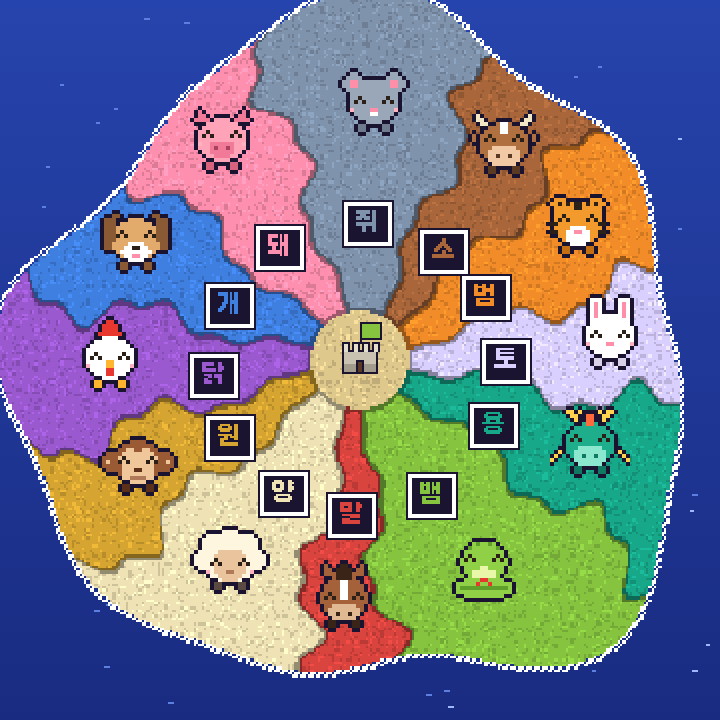
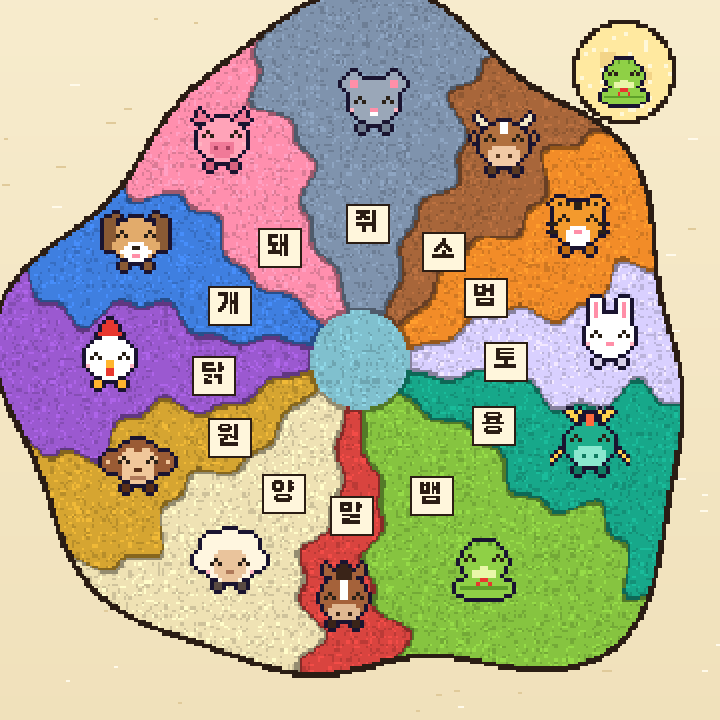
새 디자인(한지·먹선·도장)과 달 차지 규칙으로 변경

diff --git a/index.html b/index.html
@@ -10,41 +10,41 @@
 <meta property="og:image" content="map.png">
 <style>
 @font-face { font-family: G11; src: url(Galmuri11-Bold.woff2); font-display: swap; }
-:root { --navy: #1a1f5c; --dark: #1a1430; --gold: #f2c14e; --red: #ff4d4d; --yel: #ffe14d; --soft: #cfd6ff; }
+:root { --ink: #2b1d14; --seal: #c8321e; --cream: #fff6dc; --soft: #7a6652; }
 * { box-sizing: border-box; }
-body { margin: 0; background: #14226f linear-gradient(#2c4ebe, #14226f) fixed; color: #fff; font: 16px/1.6 G11, 'Malgun Gothic', sans-serif; -webkit-font-smoothing: none; }
+body { margin: 0; background: #eeddb4 linear-gradient(#faf0d4, #eeddb4) fixed; color: var(--ink); font: 16px/1.6 G11, 'Malgun Gothic', sans-serif; -webkit-font-smoothing: none; }
 main { max-width: 480px; margin: 0 auto; padding: 16px 16px 96px; }
-h1 { margin: 8px 0 0; padding: 10px; text-align: center; font-size: 32px; color: var(--yel); background: #2a0f4a; border: 3px solid var(--gold); outline: 3px solid var(--dark); text-shadow: 3px 3px 0 #b3261e; }
-h2 { margin: 0 0 8px; font-size: 18px; color: var(--yel); }
+h1 { margin: 8px 0 0; padding: 10px 10px 6px; text-align: center; font-size: 34px; color: var(--ink); border-bottom: 5px solid var(--seal); }
+h2 { margin: 0 0 8px; font-size: 18px; color: var(--seal); }
 .top { display: flex; justify-content: space-between; gap: 8px; margin: 14px 0; font-size: 15px; }
-.top b { color: var(--yel); }
-.top .dl b { color: var(--red); }
-.box { margin: 16px 0; padding: 12px; background: var(--navy); border: 3px solid var(--gold); outline: 3px solid var(--dark); }
-.map { display: block; width: 100%; height: auto; aspect-ratio: 1; image-rendering: pixelated; border: 3px solid var(--gold); outline: 3px solid var(--dark); background: #2c4ebe; }
-.note { margin: 12px 0; padding: 8px; text-align: center; color: var(--dark); background: var(--yel); }
+.top b { color: var(--seal); }
+.box { margin: 16px 0; padding: 12px; background: var(--cream); border: 2px solid var(--ink); box-shadow: 3px 3px 0 rgba(43, 29, 20, .22); }
+.map { display: block; width: 100%; height: auto; aspect-ratio: 1; image-rendering: pixelated; border: 2px solid var(--ink); box-shadow: 3px 3px 0 rgba(43, 29, 20, .22); background: #f6ebcc; }
+.note { margin: 12px 0; padding: 8px; text-align: center; color: var(--cream); background: var(--seal); }
 .row { display: grid; grid-template-columns: 1.4em 1.6em 1fr 5.2em 3.6em; gap: 6px; align-items: center; padding: 3px 4px; font-size: 14px; }
-.row.first { background: #8a6a12; }
-.row.last { background: #7a1c18; }
-.row .n { text-align: right; color: #8f98d8; }
-.row .c { text-align: center; color: var(--dark); }
-.row .bar { height: 12px; background: var(--dark); }
+.row.first { background: #f7d977; }
+.row.last { background: #f2b3a6; }
+.row .n { text-align: right; color: var(--soft); }
+.row .c { text-align: center; color: var(--ink); outline: 1px solid var(--ink); }
+.row .bar { height: 12px; background: #e7d6ab; }
 .row .bar i { display: block; height: 100%; }
 .row .v, .row .l { text-align: right; }
 .row .l { color: var(--soft); }
 .head { color: var(--soft); font-size: 12px; }
 ul { margin: 0; padding-left: 1.2em; }
 li { margin: 4px 0; }
-em { font-style: normal; color: var(--yel); }
+em { font-style: normal; color: var(--seal); }
 small { display: block; margin-top: 8px; color: var(--soft); font-size: 12px; }
-.cta { position: fixed; left: 0; right: 0; bottom: 0; padding: 12px 16px; background: linear-gradient(transparent, #14226f 40%); }
-.cta a { display: block; max-width: 448px; margin: 0 auto; padding: 14px; text-align: center; color: #fff; font-size: 18px; text-decoration: none; background: #b3261e; border: 3px solid var(--gold); outline: 3px solid var(--dark); }
-.cta a:focus-visible { outline-color: #fff; }
+a { color: var(--seal); }
+.cta { position: fixed; left: 0; right: 0; bottom: 0; padding: 12px 16px; background: linear-gradient(transparent, #eeddb4 40%); }
+.cta a { display: block; max-width: 448px; margin: 0 auto; padding: 14px; text-align: center; color: var(--cream); font-size: 18px; text-decoration: none; background: var(--seal); border: 2px solid var(--ink); box-shadow: 3px 3px 0 rgba(43, 29, 20, .22); }
+.cta a:focus-visible { outline: 3px solid var(--ink); }
 </style>
 <main>
   <h1>열두 띠 전쟁</h1>
-  <div class="top"><span>시즌1 <b id="day">DAY 0</b></span><span class="dl">오늘 마감까지 <b id="left">--:--:--</b></span></div>
+  <div class="top"><span>시즌1 <b id="day">DAY 0</b></span><span class="dl">달 뜨기까지 <b id="left">--:--:--</b></span></div>
   <p class="note" id="note" hidden></p>
-  <img class="map" id="map" src="map.png" alt="열두 띠가 나눠 가진 대륙 지도. 띠마다 색이 다르고 가운데에 성이 있다." width="720" height="720">
+  <img class="map" id="map" src="map.png" alt="열두 띠가 나눠 가진 대륙 지도. 띠마다 색이 다르고, 오른쪽 위 달에 오늘의 1등 띠가 올라가 있다." width="720" height="720">
   <section class="box" id="sum" hidden>
     <h2 id="sumT"></h2>
     <ul id="sumL"></ul>
@@ -57,7 +57,7 @@ small { display: block; margin-top: 8px; color: var(--soft); font-size: 12px; }
   </section>
   <section class="box">
     <h2>띠 운세</h2>
-    <a href="unse.html" style="color:var(--yel)">오늘 내 띠 전투력 뽑기 · 궁합 보기 ▶</a>
+    <a href="unse.html">오늘 내 띠 전투력 뽑기 · 궁합 보기 ▶</a>
   </section>
   <section class="box">
     <h2>참여 방법</h2>
@@ -65,9 +65,9 @@ small { display: block; margin-top: 8px; color: var(--soft); font-size: 12px; }
       <li>인스타그램 영상 댓글에 <em>내 띠 한 글자</em>만 쓰면 병사 한 마리.</li>
       <li>쥐 소 범 토 용 뱀 말 양 원 닭 개 돼. 호랑이, 토끼, 원숭이, 돼지처럼 풀어 써도 돼요.</li>
       <li>병사가 많은 띠가 옆 띠의 땅을 빼앗아요.</li>
-      <li>그날 1등은 가운데 성을 차지해요.</li>
+      <li>그날 1등 띠는 그날 밤 <em>달</em>을 차지해요.</li>
       <li>어제 꼴찌 띠는 오늘 병사가 <em>두 배</em>.</li>
-      <li><em>매일 밤 9시</em>에 마감, 결과는 다음 영상에서. 9시 뒤 댓글은 다음 날 병사로 넘어가요.</li>
+      <li><em>매일 밤 9시</em>, 달이 뜨면 댓글을 세요. 결과는 다음 날 영상으로 알려요. 9시 뒤 댓글은 다음 날 병사로 넘어가요.</li>
     </ul>
     <small>참여는 인스타그램 댓글로만 받아요. 이 페이지는 결과를 보는 곳이에요.</small>
   </section>
@@ -90,15 +90,15 @@ tick(); setInterval(tick, 1000);
 fetch('state.json?' + Date.now()).then(r => r.json()).then(s => {
   $('map').src = 'map.png?' + (s.cutoff || '');
   if (s.next_reel) $('go').href = s.next_reel;
-  if (!s.day) { $('note').textContent = '첫 결과는 밤 9시 마감 뒤에 올라와요.'; $('note').hidden = false; return; }
+  if (!s.day) { $('note').textContent = '첫 결과는 밤 9시에 댓글을 센 뒤 올라와요.'; $('note').hidden = false; return; }
   $('day').textContent = 'DAY ' + (s.day + 1);
   if (s.note) { $('note').textContent = '집계 중! 아래는 확정 전 숫자예요.'; $('note').hidden = false; }
   const sol = NAMES.map(n => s.soldiers[n]), w = NAMES.map((_, k) => ((k < 11 ? s.borders[k + 1] : s.borders[0] + 12) - s.borders[k]) / 12 * 100);
   const order = NAMES.map((_, i) => i).sort((a, b) => sol[b] - sol[a]), max = sol[order[0]] || 1;
-  const d = new Date(s.cutoff < 1e12 ? s.cutoff * 1000 : s.cutoff), when =`${d.getMonth() + 1}월 ${d.getDate()}일 밤 9시 마감`;
+  const d = new Date(s.cutoff < 1e12 ? s.cutoff * 1000 : s.cutoff), when =`${d.getMonth() + 1}월 ${d.getDate()}일 밤 9시`;
   $('sumT').textContent = `DAY ${s.day} 결과`;
   $('sumL').innerHTML = `<li>댓글 <em>${num(s.total_comments)}개</em>, <em>${num(s.total_people)}명</em>이 싸웠어요.</li>
-    <li>1등 <em>${FULL[s.top]}띠</em>가 가운데 성을 차지했어요.</li>
+    <li>1등 <em>${FULL[s.top]}띠</em>가 오늘 밤 달을 차지했어요.</li>
     <li>꼴찌 <em>${FULL[s.last]}띠</em>는 오늘 병사가 두 배예요.</li>`;
   $('rankT').textContent = `DAY ${s.day} 순위`;
   $('rows').innerHTML = order.map((i, k) => `<div class="row${k === 0 ? ' first' : k === 11 ? ' last' : ''}">
